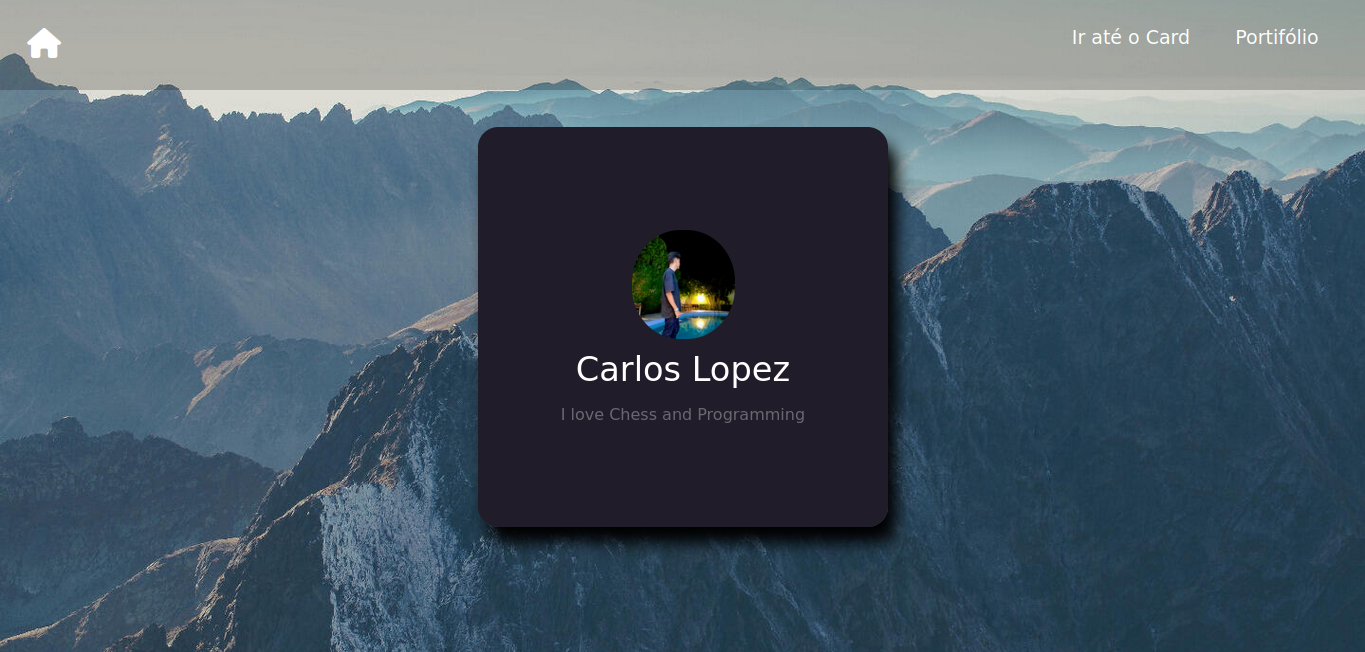
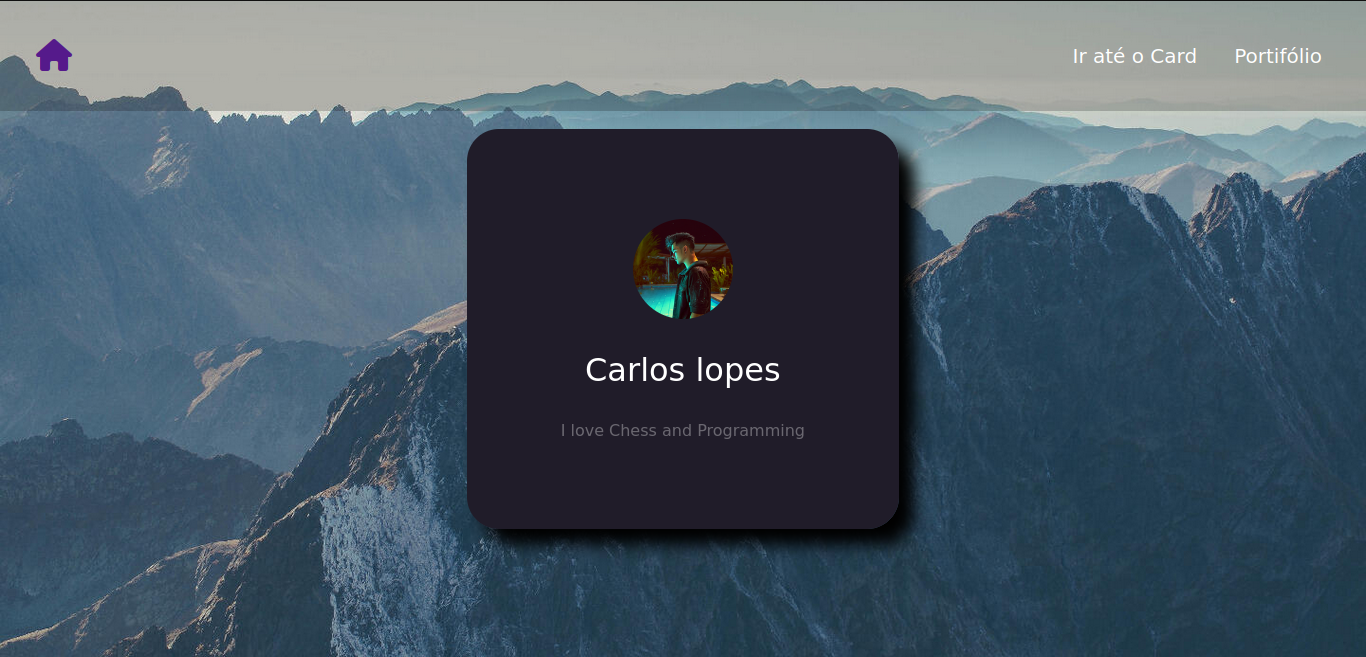
fix: pictures path

diff --git a/Projeto Final/assets/projects/SinglePage/index.html b/Projeto Final/assets/projects/SinglePage/index.html
@@ -23,9 +23,9 @@
     <div class="card" id="carD">
         <div class="flip">
             <div class="front">
-                <img width="99rem" src="assets/images/MyPerson.jpg" alt="">
+                <img width="99rem" src="assets/images/avatar.png" alt="">
 
-                <h1>Carlos Lopez</h1>
+                <h1>Carlos Lopes</h1>
 
                 <p>I love Chess and Programming</p>
             </div>

diff --git a/Projeto Final/index.html b/Projeto Final/index.html
@@ -54,7 +54,7 @@
 			</p>
 
 
-			<ul class="actions">
+			<ul aria-hidden="true" class="actions">
 				<li>
 					<a onclick="ReadMore()" id="buttonReadMore" class="button">Ler mais</a>
 				</li>
@@ -116,8 +116,6 @@
 						</tr>
 					</tbody>
 				</table>
-
-				<p>Nunca estaremos no 100% sempre haverá algo novo para aprender.</p>
 			</div>
 		</section>
 

diff --git a/Projeto Final/assets/projects/SinglePage/assets/css/index.css b/Projeto Final/assets/projects/SinglePage/assets/css/index.css
@@ -8,7 +8,7 @@
 
 /* Css of Body */
 body{
-    background-image: url("https://687ef0df6612216c.demo.carrd.co/assets/images/bg.jpg?v=e6d9f3d9");
+    background-image: url("../images/bg.jpg");
     font-family: 'Source Sans Pro', sans-serif;
     background-repeat: no-repeat;
     background-position: center;

diff --git a/Projeto Final/assets/css/main.css b/Projeto Final/assets/css/main.css
@@ -133,7 +133,7 @@ h3 {
 	color: #A7A6A6;
 	font-weight: 400;
 	line-height: 1rem;
-	margin: 0 0 1rem 0;
+	margin: 0 0 3rem 0;
 }
 
 h1 {
